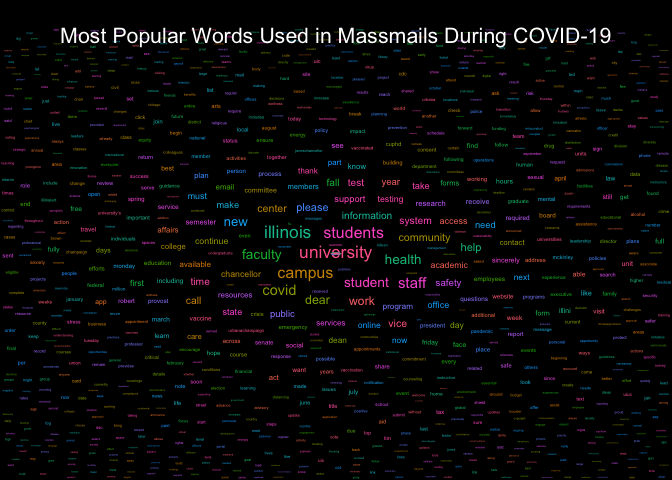
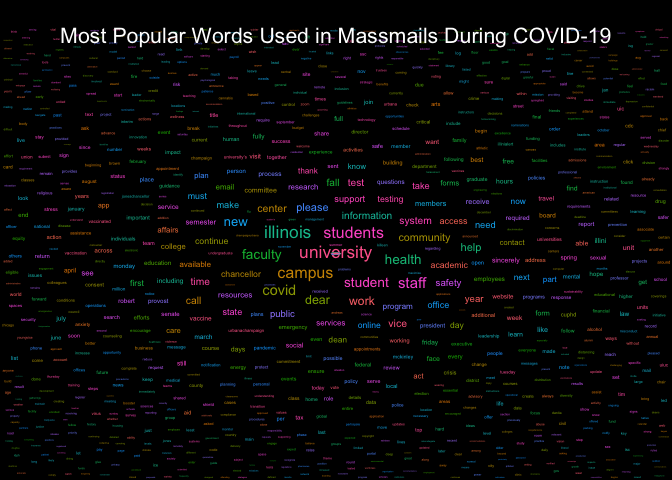
Re-build README.Rmd and Graphs

diff --git a/README.md b/README.md
@@ -17,7 +17,7 @@ The archive may be viewed here:
 
 <https://massmail.illinois.edu/massmailArchive>
 
-Data has **1984** observations and **7** variables:
+Data has **1986** observations and **7** variables:
 
 - `datetime`: Date and time when the email was sent in the form of
   `YYYY-MM-DD HMS` with either CDT or CST.
@@ -210,16 +210,16 @@ head(most_popular_words, 10) %>%
 
 | word        | freq |
 |:------------|-----:|
-| university  | 2734 |
-| students    | 2226 |
-| campus      | 1940 |
-| illinois    | 1914 |
-| student     | 1413 |
-| faculty     | 1267 |
+| university  | 2737 |
+| students    | 2228 |
+| campus      | 1945 |
+| illinois    | 1918 |
+| student     | 1414 |
+| faculty     | 1270 |
 | health      | 1184 |
-| community   | 1168 |
-| information | 1130 |
-| staff       | 1108 |
+| community   | 1170 |
+| information | 1131 |
+| staff       | 1110 |
 
 #### Wordcloud
 
